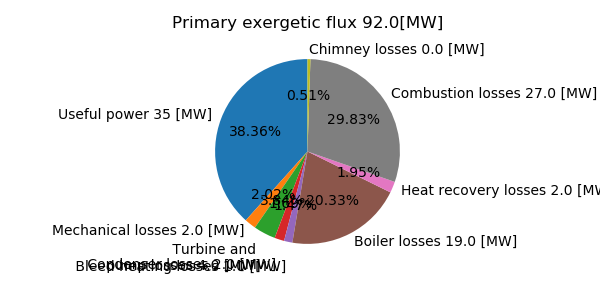
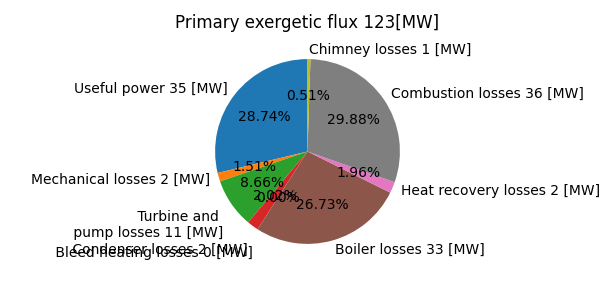
plot

diff --git a/ST_feed_and_reheat_multi.py b/ST_feed_and_reheat_multi.py
@@ -73,6 +73,7 @@ def ST(ST_inputs):
      """
     steamTable = XSteam(XSteam.UNIT_SYSTEM_MKS); # m/kg/sec/°C/bar/W
     arg_in = ST_inputs;
+    fig3,ax3 = plt.subplots()
 
     ## Check input arguments
     # ======================
@@ -224,7 +225,7 @@ def ST(ST_inputs):
     Here we begin the code vectorization because we want to add the number of reheating that we want
     """
     for i in range (0,reheat):
-
+            p_pre = results[1][4+2*i]
             h_pre = results[2][4+2*i]
             s_pre = results[3][4+2*i]
             e_pre = results[5][4+2*i]
@@ -252,10 +253,29 @@ def ST(ST_inputs):
 
             Q1 += (h5i-h4i)
             Q_boiler_exergie += e5i-e4i
+            T4i5i = np.linspace(T4i-273.15,T5i-273.15,100)
+            S4i5i = np.zeros(len(T4i5i))
+            for i in range(0,len(T4i5i)):
+                S4i5i[i] = steamTable.s_pt(p4i,T4i5i[i])
+            ax3.plot(S4i5i,T4i5i,'g')
+
+            ppre4i = np.linspace(p_pre,p4i,100)
+            Sprep = np.linspace(s_pre,s_pre,100)
+            Tpre4i = np.zeros(len(ppre4i))
+            Spre4i = np.zeros(len(ppre4i))
+            hpre4is = np.zeros(len(ppre4i))
+            hpre4i = np.zeros(len(ppre4i))
+            for i in range(0,len(ppre4i)):
+                hpre4is[i] = steamTable.h_ps(ppre4i[i],s_pre)
+                hpre4i[i] = h_pre-(h_pre-hpre4is[i])*eta_SiT
+                Tpre4i[i] = steamTable.t_ph(ppre4i[i],hpre4i[i])
+                Spre4i[i] = steamTable.s_ph(ppre4i[i],hpre4i[i])
+            ax3.plot(Spre4i,Tpre4i,'g',Sprep,Tpre4i,'b--')
 
     """
     5) Turbine : after the reheat
     """
+    p_pre = results[1][4+2*reheat]
     s_pre = results[3][4+2*reheat]
     h_pre = results[2][4+2*reheat]
     e_pre = results[5][4+2*reheat]
@@ -294,6 +314,7 @@ def ST(ST_inputs):
 
         T6i = np.zeros(nsout)
         s6i = np.zeros(nsout)
+        x6i = np.zeros(nsout)
 
 
         for i in range(nsout):
@@ -304,8 +325,27 @@ def ST(ST_inputs):
 
             T6i[i] = steamTable.t_ph(p8i[i],h6i[i])+273.15
             s6i[i] = steamTable.s_ph(p8i[i],h6i[i])
+            x6i[i] = steamTable.x_ph(p8i[i],h6i[i])
+
+            if x6i[i] >= 1:
+                #je calcule les états intermédiaire entre T6i et T6i à saturation
+                T6isat = steamTable.tsat_p(p8i[i])+1
+                S6isat = steamTable.sV_t(T6isat)
+                T6i_6isat = np.linspace(T6i[i]-273.15,T6isat)
+                S6i_6isat = np.zeros(len(T6i_6isat))
+                for j in range(0,len(T6i_6isat)):
+                    S6i_6isat[j] = steamTable.s_pt(p8i[i],T6i_6isat[j])
+                ax3.plot(S6i_6isat,T6i_6isat,'k')
+
+                T6isat_8i = np.linspace(T6isat,T8i[i]-273.15,100)
+                S6isat_8i = np.linspace(S6isat,s8i[i],100)
+                ax3.plot(S6isat_8i,T6isat_8i,'k')
+            if x6i[i] < 1 :
+                T6isat_8i = np.linspace(T6i[i]-273.15,T8i[i]-273.15,100)
+                S6isat_8i = np.linspace(s6i[i],s8i[i],100)
+                ax3.plot(S6isat_8i,T6isat_8i,'k')
+
         p6i = p8i
-        x6i = None
         x8i = 0
         e8i = h8i-T0*s8i
         e6i = h6i - T0*s6i
@@ -442,7 +482,7 @@ def ST(ST_inputs):
 
 
         #formater le resultat rappel : results 7,10,1,2,3,[reheat :41,51,...,4last,pre ], 6, 61,62,...,6n, 81,82,...,8n,101,102,...,10n(1),91
-        results[:,6+2*reheat:6+nsout+2*reheat]=T6i-273.15,p6i,h6i,s6i,-1*np.ones(nsout),e6i
+        results[:,6+2*reheat:6+nsout+2*reheat]=T6i-273.15,p6i,h6i,s6i,x6i,e6i
 
         results[:,6+nsout+2*reheat:6+2*nsout+2*reheat]=T8i-273.15,p8i,h8i,s8i,x8i*np.ones(nsout),e8i
 
@@ -640,7 +680,7 @@ def ST(ST_inputs):
     outputs.HR.T_dew = boiler_outputs.T_dew
 
     """
-    18) Pie charts and cycle graphs
+    18) Pie charts
     """
     # pie chart of the energie flux in the cycle
     fig,ax =  plt.subplots(figsize=(6, 3), subplot_kw=dict(aspect="equal"))
@@ -677,33 +717,42 @@ def ST(ST_inputs):
         S_L[i]=steamTable.sL_t(T[i])
         S_V[i]=steamTable.sV_t(T[i])
 
-    T_results = results[0,:]
-    S_results = results[3,:]
+    T72 = np.linspace(T7-273.15,T2-273.15,100)
+    S72 = np.linspace(s7,s2,100)
 
-    fig3,ax3 = plt.subplots()
-    #trasnfo entre 2 et 3
-    T2_prime = steamTable.tsat_p(p2)
-    S2_prime = steamTable.sL_p(p2)
-    S2_prime_prime = steamTable.sV_p(p2)
+    T2p = steamTable.tsat_p(p2)  ; S2p = steamTable.sL_p(p2) #°C,kJ/kg
+    T2pp =  T2p ; S2pp = steamTable.sV_p(p2)
+    T2p2pp = np.linspace(T2p,T2pp,100)
+    S2p2pp = np.linspace(S2p,S2pp,100)
 
-    T23 = np.linspace(T2-273.15,T2_prime-1,100)
-    S23 = np.zeros(100)
-    for i in range(len(S23)):
-        S23[i] = steamTable.s_pt(p2,T23[i])
-    ax3.plot(S23,T23,'-b')
-    S23_2 = np.linspace(S2_prime,S2_prime_prime,100)
-    T23_2 = T2_prime*np.ones(100)
-    ax3.plot(S23_2,T23_2,'-b')
+    S22p = np.linspace(s2,S2p,100)+1
+    T22p = np.zeros(len(S22p))
+    for i in range(0,len(S22p)):
+        T22p[i] = steamTable.t_ps(p2,S22p[i])
 
-    T23_3 = np.linspace(T2_prime+1,T3-273.15,100)
-    S23_3 = np.zeros(100)
-    for i in range(len(S23)):
-        S23_3[i] = steamTable.s_pt(p2,T23_3[i])
-    ax3.plot(S23_3,T23_3,'-b')
+    T2pp3 = np.linspace(T2pp,T3-273.15,100)+1
+    S2pp3 = np.zeros(len(T2pp3))
+    for i in range(0,len(T2pp3)):
+        S2pp3[i] = steamTable.s_pt(p3,T2pp3[i])
+
+    p36 = np.linspace(p_pre,p6,100)
+    S3p = np.linspace(s_pre,s_pre,100)
+    T36 = np.zeros(len(p36))
+    S36 = np.zeros(len(p36))
+    h36s = np.zeros(len(p36))
+    h36 = np.zeros(len(p36))
+    for i in range(0,len(p36)):
+        h36s[i] = steamTable.h_ps(p36[i],s_pre)
+        h36[i] = h_pre-(h_pre-h36s[i])*eta_SiT
+        T36[i] = steamTable.t_ph(p36[i],h36[i])
+        S36[i] = steamTable.s_ph(p36[i],h36[i])
+
+    T67 = np.linspace(T36[-1],T7-273.15,100)
+    S67 = np.linspace(S36[-1],s7,100)
 
     ax3.plot(S_L,T,'-r')
     ax3.plot(S_V,T,'-r')
-    ax3.scatter(S_results,T_results)
+    ax3.plot(S72,T72,'g',S22p,T22p,'g',S2p2pp,T2p2pp,'g',S2pp3,T2pp3,'g',S36,T36,'g',S3p,T36,'b--',S67,T67,'g')
     ax3.set_xlabel('Entropy [J/kg/K]')
     ax3.set_ylabel('Tempearature [°C]')
     ax3.grid(True)
@@ -726,8 +775,8 @@ def ST(ST_inputs):
 ST_inputs = ST_arg.ST_inputs();
 ST_inputs.Pe = 35.0e3 #[kW]
 ST_inputs.DISPLAY = 1
-ST_inputs.nsout = 5
-ST_inputs.reheat = 2
+ST_inputs.nsout = 0
+ST_inputs.reheat = 0
 ST_inputs.p3_hp=100
 ST_inputs.p4 = 30
 answers = ST(ST_inputs);
